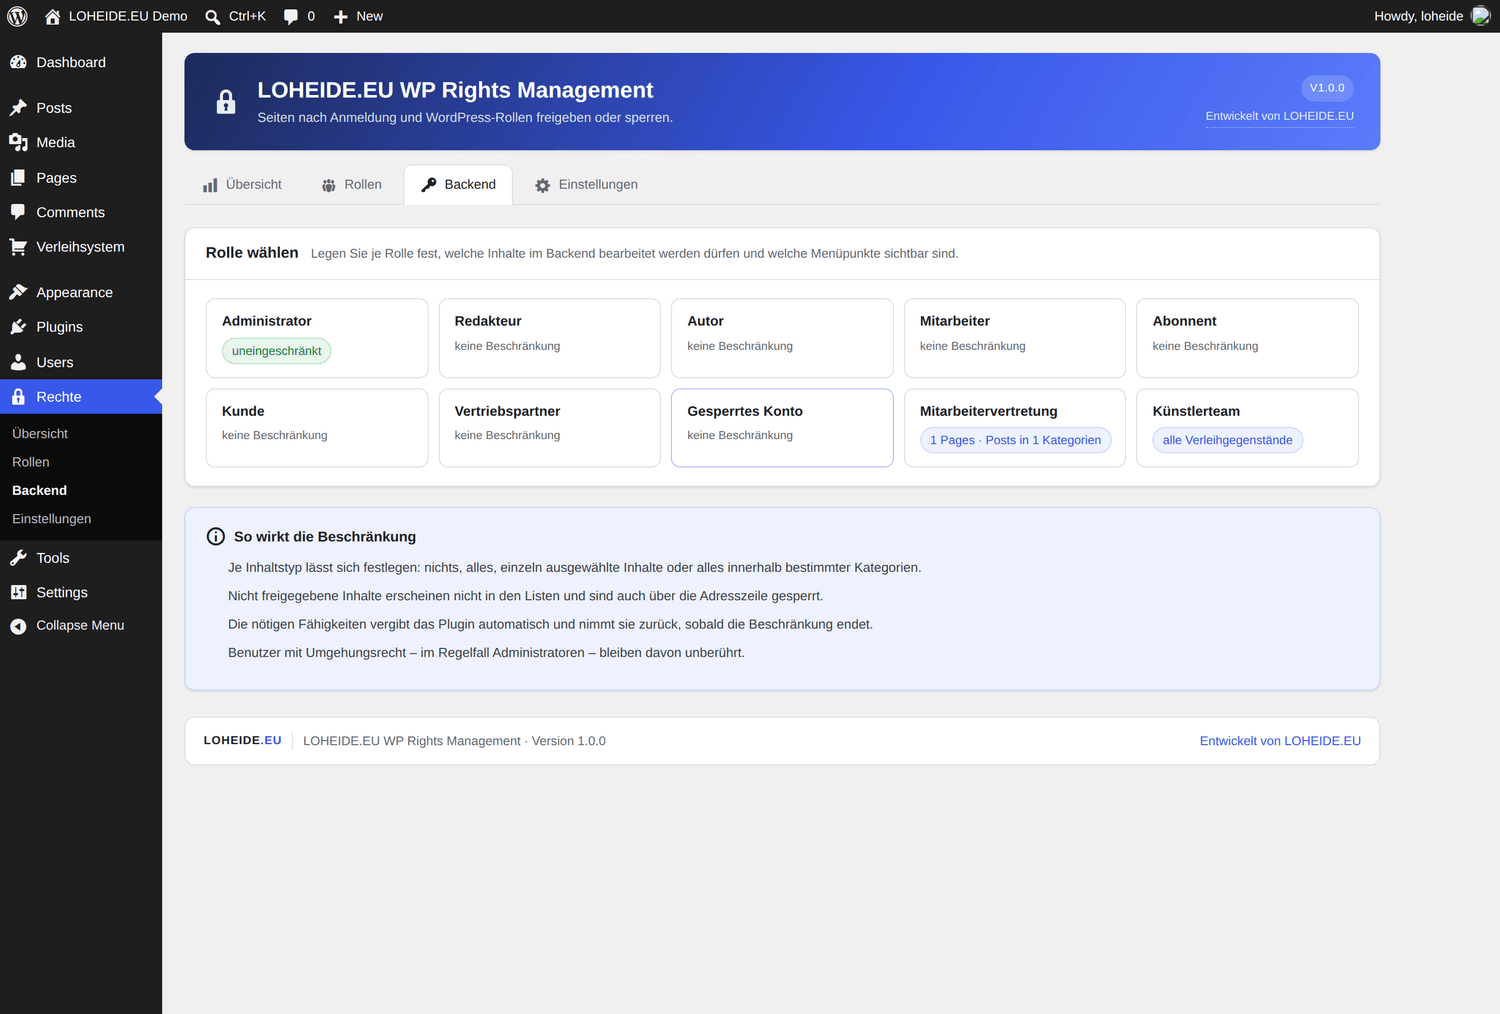
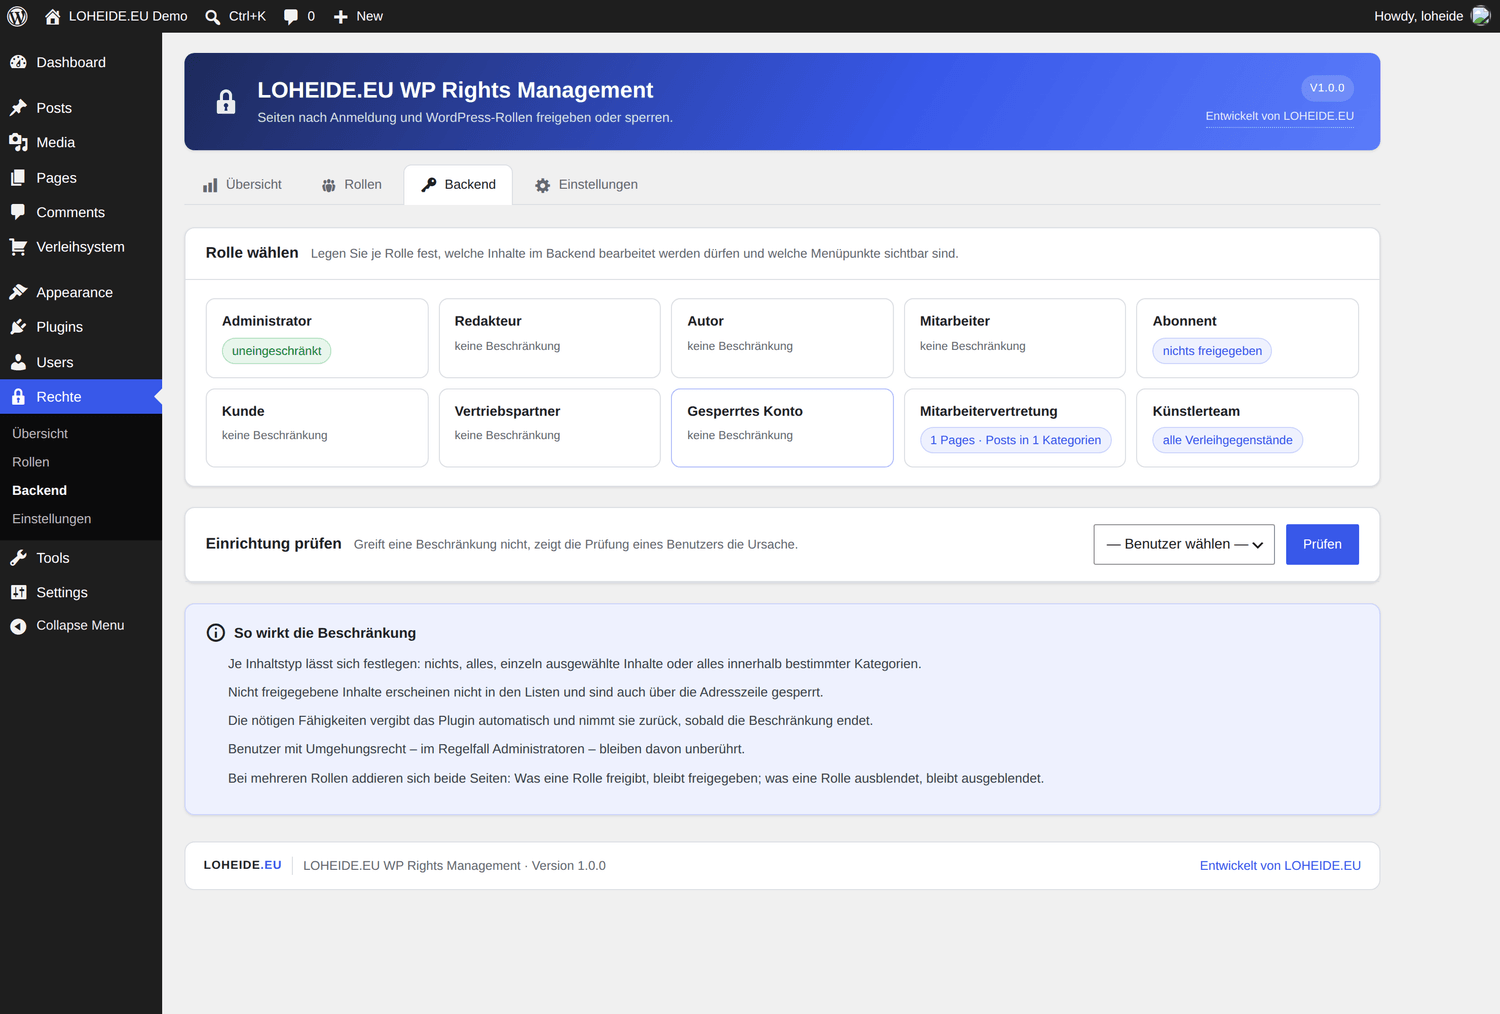
Untermenüs freigegebener Inhalte schützen, Rollen aussperren können
Zwei zusammenhängende Korrekturen an den Backend-Rechten.

Wird eine Rolle über "Alle ausblenden" vollständig dichtgemacht, sperrt
das auch die Unterpunkte - "Alle Seiten", "Alle Beiträge" und so fort.
Geschützt waren bisher nur die Hauptmenüs der freigegebenen
Inhaltstypen. Ein Hauptmenü ohne erreichbaren Unterpunkt ist aber
nutzlos: WordPress weist den Aufruf einer Seite ab, die in keinem Menü
steht. Ein Benutzer mit einer gesperrten Zweitrolle kam dadurch nicht
mehr an seine zugewiesenen Inhalte. Jetzt sind die Unterpunkte
ebenfalls geschützt, und ein Menü, dessen Unterpunkte alle entfernt
wurden, verschwindet vollständig statt als toter Eintrag stehen zu
bleiben.

Neu ist die Option "Kein Zugang zum Verwaltungsbereich". Aufrufe von
/wp-admin werden zur Website zurückgeleitet; admin-ajax.php und
admin-post.php bleiben erreichbar, weil das Frontend sie braucht. Der
Zugang zählt als Freigabe: Lässt eine Rolle hinein, kommt die Person
hinein - sonst würde eine Nebenrolle wie "Abonnent" die eigentliche
Arbeitsrolle aussperren.

Geprüft in einer laufenden Installation über die Oberfläche: Bei
"Abonnent" alles ausgeblendet (50 Einträge) und den Zugang gesperrt.
Ein reiner Abonnent landet danach auf der Startseite. Ein Benutzer mit
Abonnent und Mitarbeitervertretung kommt ins Backend, sieht Dashboard,
Beiträge, Medien und Seiten und darin genau seine Inhalte.

Die Prüfung eines Benutzers weist die verborgenen Menüpunkte und einen
gesperrten Zugang jetzt mit aus.
[…]

diff --git a/includes/class-lrm-backend-guard.php b/includes/class-lrm-backend-guard.php
@@ -57,6 +57,7 @@ class LRM_Backend_Guard {
 
 		// Menüpunkte, Dashboard und Direktaufrufe.
 		add_action( 'admin_menu', array( $this, 'hide_menus' ), 9999 );
+		add_action( 'admin_init', array( $this, 'block_admin_access' ), 0 );
 		add_action( 'admin_init', array( $this, 'block_forbidden_screens' ), 1 );
 		add_action( 'admin_bar_menu', array( $this, 'clean_admin_bar' ), 999 );
 		add_action( 'wp_dashboard_setup', array( $this, 'handle_dashboard' ), 9999 );
@@ -637,6 +638,8 @@ class LRM_Backend_Guard {
 			remove_menu_page( $entry );
 		}
 
+		$this->keep_menus_reachable();
+
 		// Neue Inhalte anlegen, sofern nicht erlaubt, auch aus dem Menü nehmen.
 		foreach ( LRM_Backend::managed_post_types() as $slug => $label ) {
 			$type = LRM_Backend::type_config( $config, $slug );
@@ -655,6 +658,38 @@ class LRM_Backend_Guard {
 	}
 
 	/**
+	 * Sicherstellen, dass jedes sichtbare Menü erreichbar bleibt.
+	 *
+	 * WordPress weist den Aufruf einer Seite ab, die in keinem Menü steht. Ein
+	 * Hauptmenü, dessen Unterpunkte alle entfernt wurden, wäre damit nur noch
+	 * Zierde – und der Klick darauf führte zu einer Fehlermeldung.
+	 */
+	protected function keep_menus_reachable() {
+		global $menu, $submenu;
+
+		foreach ( (array) $menu as $item ) {
+			if ( empty( $item[2] ) ) {
+				continue;
+			}
+
+			$slug = $item[2];
+
+			// Menüs ohne eigene Unterpunkte sind selbst die Zielseite.
+			if ( ! isset( $submenu[ $slug ] ) ) {
+				continue;
+			}
+
+			if ( ! empty( $submenu[ $slug ] ) ) {
+				continue;
+			}
+
+			// Der Unterpunkt wurde vollständig geleert: Menü ebenfalls entfernen,
+			// statt einen toten Eintrag stehen zu lassen.
+			remove_menu_page( $slug );
+		}
+	}
+
+	/**
 	 * Menüschlüssel, die wegen freigegebener Inhalte sichtbar bleiben müssen.
 	 *
 	 * @param array $config Regel.
@@ -665,6 +700,8 @@ class LRM_Backend_Guard {
 		// dorthin. Das eigene Profil lässt sich dagegen bewusst abschalten.
 		$keys = array( 'index.php' );
 
+		$keys[] = 'index.php|index.php';
+
 		foreach ( (array) $config['types'] as $slug => $type ) {
 			$type = wp_parse_args( (array) $type, LRM_Backend::type_defaults() );
 
@@ -673,8 +710,17 @@ class LRM_Backend_Guard {
 			}
 
 			$base = ( 'post' === $slug ) ? 'edit.php' : 'edit.php?post_type=' . $slug;
+			$new  = ( 'post' === $slug ) ? 'post-new.php' : 'post-new.php?post_type=' . $slug;
 
 			$keys[] = $base;
+
+			// Auch die Unterpunkte: Ein Menü ohne erreichbaren Unterpunkt wird
+			// von WordPress gesperrt.
+			$keys[] = $base . '|' . $base;
+
+			if ( ! empty( $type['create'] ) ) {
+				$keys[] = $base . '|' . $new;
+			}
 
 			$object = get_post_type_object( $slug );
 
@@ -682,11 +728,17 @@ class LRM_Backend_Guard {
 			if ( $object && is_string( $object->show_in_menu ) && 'edit.php' !== $object->show_in_menu ) {
 				$keys[] = $object->show_in_menu;
 				$keys[] = $object->show_in_menu . '|' . $base;
+
+				if ( ! empty( $type['create'] ) ) {
+					$keys[] = $object->show_in_menu . '|' . $new;
+				}
 			}
 		}
 
 		if ( ! empty( $config['allow_media'] ) ) {
 			$keys[] = 'upload.php';
+			$keys[] = 'upload.php|upload.php';
+			$keys[] = 'upload.php|media-new.php';
 		}
 
 		/**
@@ -735,6 +787,40 @@ class LRM_Backend_Guard {
 				remove_meta_box( $id, 'dashboard', $context );
 			}
 		}
+	}
+
+	/**
+	 * Rollen ohne Zugang zum Verwaltungsbereich zur Website zurückschicken.
+	 *
+	 * Betrifft nur Seitenaufrufe: admin-ajax.php und admin-post.php bleiben
+	 * erreichbar, weil auch das Frontend sie benötigt.
+	 */
+	public function block_admin_access() {
+		if ( wp_doing_ajax() || wp_doing_cron() ) {
+			return;
+		}
+
+		global $pagenow;
+
+		if ( in_array( $pagenow, array( 'admin-ajax.php', 'admin-post.php' ), true ) ) {
+			return;
+		}
+
+		$config = $this->config();
+
+		if ( null === $config || empty( $config['block_admin'] ) ) {
+			return;
+		}
+
+		/**
+		 * Zieladresse für abgewiesene Aufrufe des Verwaltungsbereichs.
+		 *
+		 * @param string $url Zieladresse.
+		 */
+		$target = apply_filters( 'lrm_backend_blocked_redirect', home_url( '/' ) );
+
+		wp_safe_redirect( $target );
+		exit;
 	}
 
 	/**

diff --git a/includes/class-lrm-backend-admin.php b/includes/class-lrm-backend-admin.php
@@ -218,6 +218,15 @@ class LRM_Backend_Admin {
 							<em><?php esc_html_e( 'Ist die Option aus, gelten die gewohnten WordPress-Rechte der Rolle.', 'loheide-rights-management' ); ?></em>
 						</span>
 					</label>
+
+					<label class="lrm-switch lrm-switch--row">
+						<input type="checkbox" name="lrm_backend[block_admin]" value="1" <?php checked( ! empty( $config['block_admin'] ) ); ?> />
+						<span class="lrm-switch__track"><span class="lrm-switch__knob"></span></span>
+						<span class="lrm-switch__label">
+							<strong><?php esc_html_e( 'Kein Zugang zum Verwaltungsbereich', 'loheide-rights-management' ); ?></strong>
+							<em><?php esc_html_e( 'Aufrufe von /wp-admin werden zur Website zurückgeleitet. Hat jemand zusätzlich eine Rolle mit Zugang, darf er hinein – dann gelten deren Rechte.', 'loheide-rights-management' ); ?></em>
+						</span>
+					</label>
 				</div>
 			</div>
 
@@ -379,6 +388,12 @@ class LRM_Backend_Admin {
 					<span class="dashicons dashicons-lock"></span>
 					<?php esc_html_e( 'Ergebnis: Die Beschränkung greift. Im Einzelnen:', 'loheide-rights-management' ); ?>
 				</li>
+				<?php if ( ! empty( $config['block_admin'] ) ) : ?>
+					<li class="is-warn">
+						<span class="dashicons dashicons-external"></span>
+						<?php esc_html_e( 'Kein Zugang zum Verwaltungsbereich – Aufrufe werden zur Website geleitet.', 'loheide-rights-management' ); ?>
+					</li>
+				<?php endif; ?>
 				<?php
 				foreach ( LRM_Backend::managed_post_types() as $slug => $label ) :
 					$type = LRM_Backend::type_config( $config, $slug );
@@ -426,6 +441,21 @@ class LRM_Backend_Admin {
 					<?php
 				endforeach;
 				?>
+				<li class="<?php echo empty( $config['hidden_menus'] ) ? 'is-ok' : 'is-warn'; ?>">
+					<span class="dashicons dashicons-menu"></span>
+					<?php
+					if ( empty( $config['hidden_menus'] ) ) {
+						esc_html_e( 'Menü: nichts verborgen', 'loheide-rights-management' );
+					} else {
+						printf(
+							/* translators: 1: Anzahl, 2: Liste der Einträge. */
+							esc_html__( 'Verborgene Menüpunkte (%1$s): %2$s', 'loheide-rights-management' ),
+							esc_html( number_format_i18n( count( $config['hidden_menus'] ) ) ),
+							esc_html( implode( ', ', array_slice( (array) $config['hidden_menus'], 0, 12 ) ) )
+						);
+					}
+					?>
+				</li>
 				<li class="<?php echo empty( $config['allow_media'] ) ? 'is-warn' : 'is-ok'; ?>">
 					<span class="dashicons dashicons-admin-media"></span>
 					<?php
@@ -931,6 +961,7 @@ class LRM_Backend_Admin {
 		$config = LRM_Backend::get( $role );
 
 		$config['enabled']        = empty( $input['enabled'] ) ? 0 : 1;
+		$config['block_admin']    = empty( $input['block_admin'] ) ? 0 : 1;
 		$config['allow_media']    = empty( $input['allow_media'] ) ? 0 : 1;
 		$config['own_media_only'] = empty( $input['own_media_only'] ) ? 0 : 1;
 		$config['hide_new_menus'] = empty( $input['hide_new_menus'] ) ? 0 : 1;

diff --git a/tests/test-backend.php b/tests/test-backend.php
@@ -283,6 +283,7 @@ $GLOBALS['lrm_test_options']['lrm_backend']['subscriber'] = array_merge(
 	LRM_Backend::defaults(),
 	array(
 		'enabled'        => 1,
+		'block_admin'    => 1,
 		'types'          => array(),
 		'allow_media'    => 0,
 		'hidden_menus'   => array( 'index.php', 'edit.php', 'upload.php', 'profile.php', 'tools.php' ),
@@ -302,6 +303,11 @@ lrm_assert( 1 === $doppel['allow_media'], 'Erlaubt eine Rolle die Mediathek, ble
 lrm_assert( in_array( 'profile.php', $doppel['hidden_menus'], true ), 'Ein Menüpunkt bleibt verborgen, den eine Rolle verbirgt' );
 lrm_assert( in_array( 'tools.php', $doppel['hidden_menus'], true ), 'Auch die Sperren der strengeren Rolle gelten' );
 lrm_assert( 1 === $doppel['hide_new_menus'], 'Die strengere Angabe zu neuen Menüs gewinnt' );
+lrm_assert( 0 === $doppel['block_admin'], 'Lässt eine Rolle ins Backend, bleibt der Zugang offen' );
+
+lrm_test_set_user( 12, array( 'subscriber' ) );
+$nur_abo = LRM_Backend::for_user( wp_get_current_user() );
+lrm_assert( 1 === $nur_abo['block_admin'], 'Für die gesperrte Rolle allein bleibt der Zugang zu' );
 
 lrm_test_set_user( 3, array( 'editor' ) );
 lrm_assert( null === LRM_Backend::for_user( wp_get_current_user() ), 'Eine Rolle ohne Regel bleibt unbeschränkt' );

diff --git a/includes/class-lrm-backend.php b/includes/class-lrm-backend.php
@@ -56,6 +56,7 @@ class LRM_Backend {
 	public static function defaults() {
 		return array(
 			'enabled'         => 0,
+			'block_admin'     => 0,
 			'types'           => array(),
 			'allow_media'     => 1,
 			'own_media_only'  => 1,
@@ -271,7 +272,7 @@ class LRM_Backend {
 	public static function sanitize( $config ) {
 		$clean = self::defaults();
 
-		foreach ( array( 'enabled', 'allow_media', 'own_media_only', 'hide_new_menus' ) as $flag ) {
+		foreach ( array( 'enabled', 'block_admin', 'allow_media', 'own_media_only', 'hide_new_menus' ) as $flag ) {
 			$clean[ $flag ] = empty( $config[ $flag ] ) ? 0 : 1;
 		}
 
@@ -501,6 +502,9 @@ class LRM_Backend {
 				// Was jemand bearbeiten darf, addiert sich über seine Rollen:
 				// Die weiter gefasste Freigabe gewinnt.
 				$merged['allow_media']    = ( $merged['allow_media'] || $config['allow_media'] ) ? 1 : 0;
+
+				// Zugang ist eine Freigabe: Lässt eine Rolle ins Backend, gilt das.
+				$merged['block_admin'] = ( $merged['block_admin'] && $config['block_admin'] ) ? 1 : 0;
 				$merged['own_media_only'] = ( $merged['own_media_only'] && $config['own_media_only'] ) ? 1 : 0;
 
 				// Was ausgeblendet ist, bleibt ausgeblendet, sobald es eine Rolle

diff --git a/README.md b/README.md
@@ -335,6 +335,7 @@ automatisch; das lässt sich abschalten.
 | **Was immer bleibt** | Nur das Dashboard – WordPress leitet nach der Anmeldung dorthin. Alles andere, auch „Profil“, lässt sich abschalten. |
 | **Bereiche auf dem Dashboard** | „Auf einen Blick", „Aktivität" und alles andere lässt sich je Rolle abschalten. |
 | **Mediathek** | Zugriff ganz abschalten oder auf die eigenen Uploads begrenzen. |
+| **Kein Zugang zum Verwaltungsbereich** | Aufrufe von `/wp-admin` werden zur Website zurückgeleitet – passend für Rollen wie „Abonnent", die dort nichts zu suchen haben. |
 
 <img src="docs/images/16-backend-menues.png" alt="Auswahl der sichtbaren Menüpunkte mit Schaltflächen für alles an oder aus" width="900">
 
@@ -427,13 +428,18 @@ Hat jemand mehrere beschränkte Rollen, gilt beides gleichzeitig:
 | **Sperren addieren sich auch** | Was eine Rolle ausblendet, bleibt ausgeblendet – selbst wenn eine andere Rolle es zeigen würde. |
 
 Der typische Fall: Jemand hat *Abonnent* und *Mitarbeitervertretung*. Der
-Abonnent ist vollständig gesperrt, trotzdem kann die Person ihre MAV-Seite
-bearbeiten – und ein in der MAV-Rolle abgeschaltetes „Profil" bleibt
+Abonnent ist vollständig gesperrt – inklusive „Kein Zugang zum
+Verwaltungsbereich" –, trotzdem kommt die Person hinein und bearbeitet ihre
+MAV-Seite. Ein in der MAV-Rolle abgeschaltetes „Profil" bleibt dagegen
 abgeschaltet.
 
-Damit das aufgeht, bleiben die Menüs freigegebener Inhaltstypen immer sichtbar.
-Sonst würde eine vollständig gesperrte Zweitrolle die zugewiesenen Inhalte
-unerreichbar machen.
+Damit das aufgeht, bleiben die Menüs freigegebener Inhaltstypen immer sichtbar,
+einschließlich ihrer Unterpunkte. Sonst würde eine vollständig gesperrte
+Zweitrolle die zugewiesenen Inhalte unerreichbar machen – WordPress weist den
+Aufruf einer Seite ab, die in keinem Menü steht.
+
+Der Zugang selbst zählt dabei als Freigabe: Lässt **eine** Rolle ins Backend,
+kommt die Person hinein.
 
 Sobald **eine** Rolle beschränkt ist, gilt die Beschränkung; nur das
 Umgehungsrecht (im Regelfall Administratoren) hebt sie auf.
